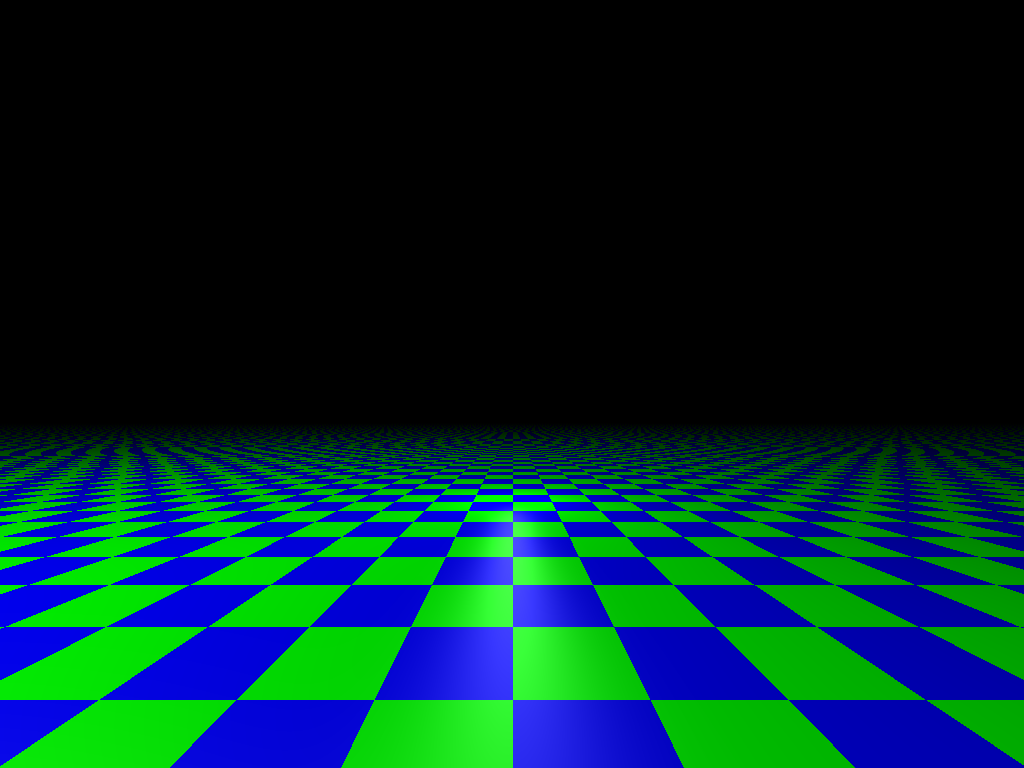
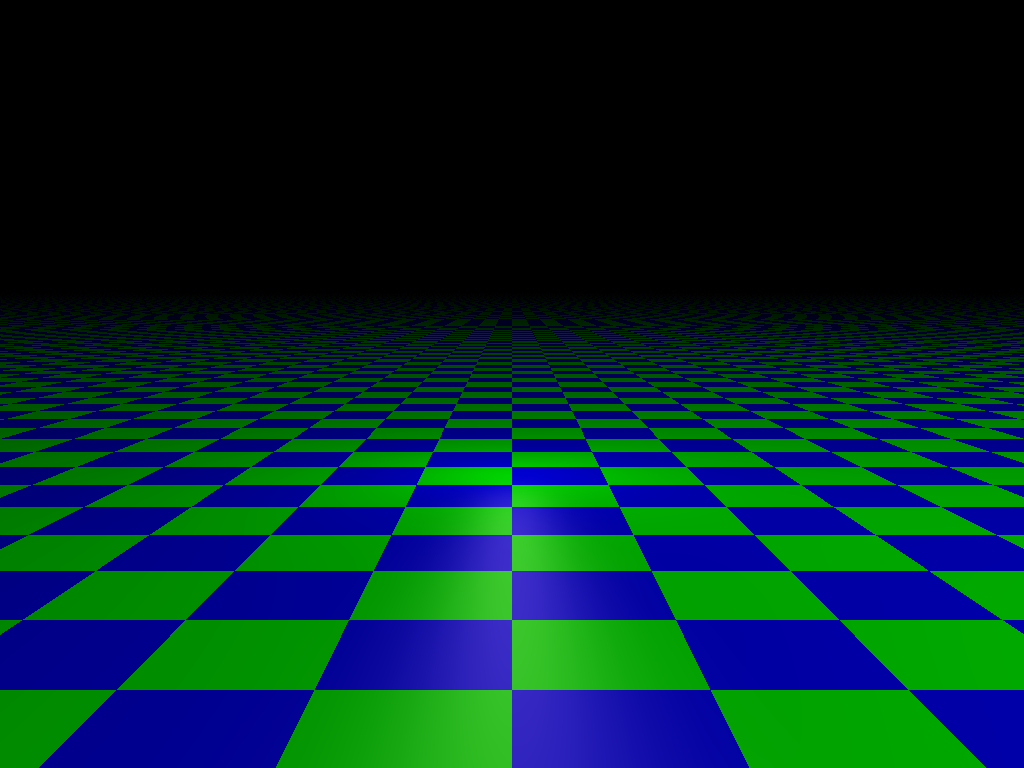
,
,

diff --git a/A4/src/comp557/a4/Scene.java b/A4/src/comp557/a4/Scene.java
@@ -72,7 +72,9 @@ public class Scene {
         
         for ( int j = 0; j < h && !render.isDone(); j++ ) {
             for ( int i = 0; i < w && !render.isDone(); i++ ) {
-            	
+				if (i==200&&j==240) {
+					int pfda = 124123;
+				}
                 // TODO: Objective 1: generate a ray (use the generateRay method)
             	Ray ray = new Ray();
             	double[] offset = new double[2];
@@ -96,12 +98,20 @@ public class Scene {
 						Vector3d wi = v3d.normalize(v3d.minus(light.from, info.p));
 						Vector3d wo = v3d.normalize(v3d.minus(cam.from, info.p));
 						
-						//diffuse
-						color = v3d.add(color,(v3d.times(info.material.diffuse, Math.max(0, v3d.dot(wi, info.n))*light.power)));
-						//specular using blinn phong
 						Vector3d n = v3d.normalize(info.n);
 						Vector3d bisector = v3d.normalize(v3d.add(v3d.normalize(wi), v3d.normalize(wo)));
-						color = v3d.add(color,(v3d.times(info.material.specular, light.power*Math.pow(Math.max(0, v3d.dot(n, bisector)),info.material.shinyness))));
+
+						IntersectResult r = new IntersectResult();
+						//if in shadow then ignore that light's contribution
+						if (inShadow(null, light, surfaceList, r, new Ray(info.p,v3d.normalize(v3d.minus(light.from, info.p))))) continue;
+
+						//assume the I term in the light formula in obtained by lightcolor*lightpower
+						//specular using blinn phong
+						
+						
+						color = v3d.add(color,v3d.times(light.color,v3d.times(info.material.specular, light.power*Math.pow(Math.max(0, v3d.dot(n, bisector)),info.material.shinyness))));
+						//diffuse
+						color = v3d.add(color,v3d.times(light.color,v3d.times(info.material.diffuse, Math.max(0, v3d.dot(wi, info.n))*light.power)));
 					}
 					color.x = Math.min(1, color.x);
 					color.y = Math.min(1, color.y);
@@ -133,21 +143,29 @@ public class Scene {
 		
 		// TODO: Objective 1: generate rays given the provided parmeters
 		if (lookat==null) {
+			//generate the lookat matrix if there is none
 			lookat = v3d.inverse(v3d.lookat(cam.from, cam.to, cam.up));
 		}
-		
+
 		ray.eyePoint = cam.from;
+
+		double width = cam.imageSize.getWidth();
+		double height = cam.imageSize.getHeight();
+		
 		
 		double d = 1/Math.tan(Math.toRadians(cam.fovy/2));	//distance to film
-		double variation = 2.0/cam.imageSize.getHeight();	//derivative, since pixel is square, horizontal and vertical uses the same
-		double pxmin = (i/cam.imageSize.getHeight()-0.5*cam.imageSize.getWidth()/cam.imageSize.getHeight())*2;
-		double pymin = 2.0*j/cam.imageSize.getHeight()-1.0;
+		double variation = 2.0/cam.imageSize.getHeight();	//size of pixel, since pixel is square, horizontal and vertical uses the same
 		
-		double dirx = offset[0] * (variation+0.5) + pxmin;
-		double diry = offset[1] * (variation+0.5) + pymin;
+		//coordinate of pixel
+		double px = -(i/height-0.5*width/height)*2;	//it seems that the image is reversed left-right
+		double py = (2.0*j/height-1.0);
 		
+		//offset the pixel
+		double dirx = offset[0] * (variation+0.5) + px;
+		double diry = offset[1] * (variation+0.5) + py;
+		
+		//convert to world space
 		ray.viewDirection = v3d.times(v3d.normalize(v3d.times(lookat, new Vector3d(dirx, diry, d))),-1);
-		
 	}
 
 	/**
@@ -161,18 +179,15 @@ public class Scene {
 	 * 
 	 * @return True if a point is in shadow, false otherwise. 
 	 */
-	public static boolean inShadow(final IntersectResult result, final Light light, final SceneNode root, IntersectResult shadowResult, Ray shadowRay) {
+	public static boolean inShadow(final IntersectResult result, final Light light, final List<Intersectable> root, IntersectResult shadowResult, Ray shadowRay) {
 		
 		// TODO: Objective 5: check for shdows and use it in your lighting computation
-		
-//		shadowRay.eyePoint = result.p;
-//		shadowRay.viewDirection = v3d.normalize(v3d.minus(light.from, result.p));
-//		for (Intersectable obj : root.children) {
-//			obj.intersect(shadowRay, shadowResult);
-//			if (shadowResult.material!=null) {
-//				return true;
-//			}
-//		}
+		for (Intersectable obj : root) {
+			obj.intersect(shadowRay, shadowResult);
+			if (shadowResult.t<Double.POSITIVE_INFINITY) {
+				return true;
+			}
+		}
 		return false;
 	}    
 }

diff --git a/A4/src/comp557/a4/Box.java b/A4/src/comp557/a4/Box.java
@@ -1,6 +1,7 @@
 package comp557.a4;
 
 import javax.vecmath.Point3d;
+import javax.vecmath.Vector3d;
 
 /**
  * A simple box class. A box is defined by it's lower (@see min) and upper (@see max) corner. 
@@ -22,6 +23,45 @@ public class Box extends Intersectable {
 	@Override
 	public void intersect(Ray ray, IntersectResult result) {
 		// TODO: Objective 6: intersection of Ray with axis aligned box
+
+		//assume that ray cannot hit a surface with normal same direction than ray
+		
+
+		double ty = ray.viewDirection.y>0?(min.y - ray.eyePoint.y)/ray.viewDirection.y:(max.y - ray.eyePoint.y)/ray.viewDirection.y;
+		if (ty>mindist&&ty<result.t) {
+			Vector3d vy = v3d.add(ray.eyePoint, v3d.times(ray.viewDirection, ty));
+			if (vy.y<max.y&&vy.y>min.y&&vy.z<max.z&&vy.z>min.z) {
+				result.t = ty;
+				result.material = material;
+				result.n = ray.viewDirection.y>0?new Vector3d(-1, 0, 0):new Vector3d(1, 0, 0);
+				result.p = new Point3d(vy);
+			}
+		}
+		double tx = ray.viewDirection.x>0?(min.x - ray.eyePoint.x)/ray.viewDirection.x:(max.x - ray.eyePoint.x)/ray.viewDirection.x;
+		if (tx>mindist&&tx<result.t) {
+			Vector3d vx = v3d.add(ray.eyePoint, v3d.times(ray.viewDirection, tx));
+			if (vx.y<max.y&&vx.y>min.y&&vx.z<max.z&&vx.z>min.z) {
+				result.t = tx;
+				result.material = material;
+				result.n = ray.viewDirection.x>0?new Vector3d(-1, 0, 0):new Vector3d(1, 0, 0);
+				result.p = new Point3d(vx);
+			}
+		}
+		double tz = ray.viewDirection.z>0?(min.z - ray.eyePoint.z)/ray.viewDirection.z:(max.z - ray.eyePoint.z)/ray.viewDirection.z;
+		if (tz>mindist&&tz<result.t) {
+			Vector3d vz = v3d.add(ray.eyePoint, v3d.times(ray.viewDirection, tz));
+			if (vz.y<max.y&&vz.y>min.y&&vz.z<max.z&&vz.z>min.z) {
+				result.t = tz;
+				result.material = material;
+				result.n = ray.viewDirection.z>0?new Vector3d(-1, 0, 0):new Vector3d(1, 0, 0);
+				result.p = new Point3d(vz);
+			}
+		}
+
+
+
+
+
 	}	
 
 }

diff --git a/A4/src/comp557/a4/v3d.java b/A4/src/comp557/a4/v3d.java
@@ -11,21 +11,25 @@ import javax.vecmath.Vector3d;
  */
 public class v3d {
     public static Vector3d add(Tuple3d a,Tuple3d b){
-    	double x = a.x+b.x;
-    	double y = a.y+b.y;
-    	double z = a.z+b.z;
-        return new Vector3d(x, y, z);
+        return new Vector3d(a.x+b.x, a.y+b.y, a.z+b.z);
     }
     
     public static Vector3d minus(Tuple3d a,Tuple3d b){
         return new Vector3d(a.x-b.x, a.y-b.y, a.z-b.z);
+	}
+	public static Vector3d times(Tuple3d a,Tuple3d b){
+        return new Vector3d(a.x*b.x, a.y*b.y, a.z*b.z);
+	}
+	public static Vector3d times(Color4f a,Tuple3d b){
+        return new Vector3d(a.x*b.x, a.y*b.y, a.z*b.z);
     }
     public static Vector3d times(Color4f a,double b){
         return new Vector3d((a.x*b), (a.y*b), (a.z*b));
     }
     public static Vector3d times(Tuple3d a,double b){
         return new Vector3d(a.x*b, a.y*b, a.z*b);
-    }
+	}
+	
     public static Vector3d times(Matrix4d m,Tuple3d t) {
     	Vector3d v= new Vector3d(t);
     	m.transform(v);
@@ -47,7 +51,7 @@ public class v3d {
     	return aa;
     }
     public static Vector3d normalize(Vector3d v) {
-    	Vector3d cpy = v;
+    	Vector3d cpy = new Vector3d(v);
     	cpy.normalize();
     	return cpy;
     }
@@ -65,10 +69,8 @@ public class v3d {
     	m.m21 = u.z;
     	m.m02 = -f.x;
     	m.m12 = -f.y;
-    	m.m22 = -f.z;
-    	m.m30 = -dot(s, o);
-    	m.m31 = -dot(u, o);
-    	m.m32 = dot(f, o);
+		m.m22 = -f.z;
+		m.transpose();
     	return m;
     }
     public static Matrix4d inverse(Matrix4d m) {

diff --git a/A4/src/comp557/a4/Plane.java b/A4/src/comp557/a4/Plane.java
@@ -37,7 +37,7 @@ public class Plane extends Intersectable {
 			result.t = t;
 			result.p = new Point3d(v3d.add(ray.eyePoint, v3d.times(ray.viewDirection, t)));
 			int x = result.p.x>=0 ? (int)result.p.x:(int)result.p.x+1;
-			int z = result.p.z>=0 ? (int)result.p.z:(int)result.p.z+1;
+			int z = result.p.z+0.5>=0 ? (int)(result.p.z+0.5):(int)(result.p.z-0.5);
 			if (Math.abs(x%2) == Math.abs(z%2)) {
 				result.material = material;
 			}else {

diff --git a/A4/src/comp557/a4/SceneNode.java b/A4/src/comp557/a4/SceneNode.java
@@ -65,7 +65,7 @@ public class SceneNode extends Intersectable {
         for ( Intersectable s : children ) {
             s.intersect( tmpRay, tmpResult );
         }
-        if ( tmpResult.t > 1e-9 && tmpResult.t < result.t ) {
+        if ( tmpResult.t > 1e-5 && tmpResult.t < result.t ) {
 
         	// TODO: do something useful here!
         	result.t = tmpResult.t;
